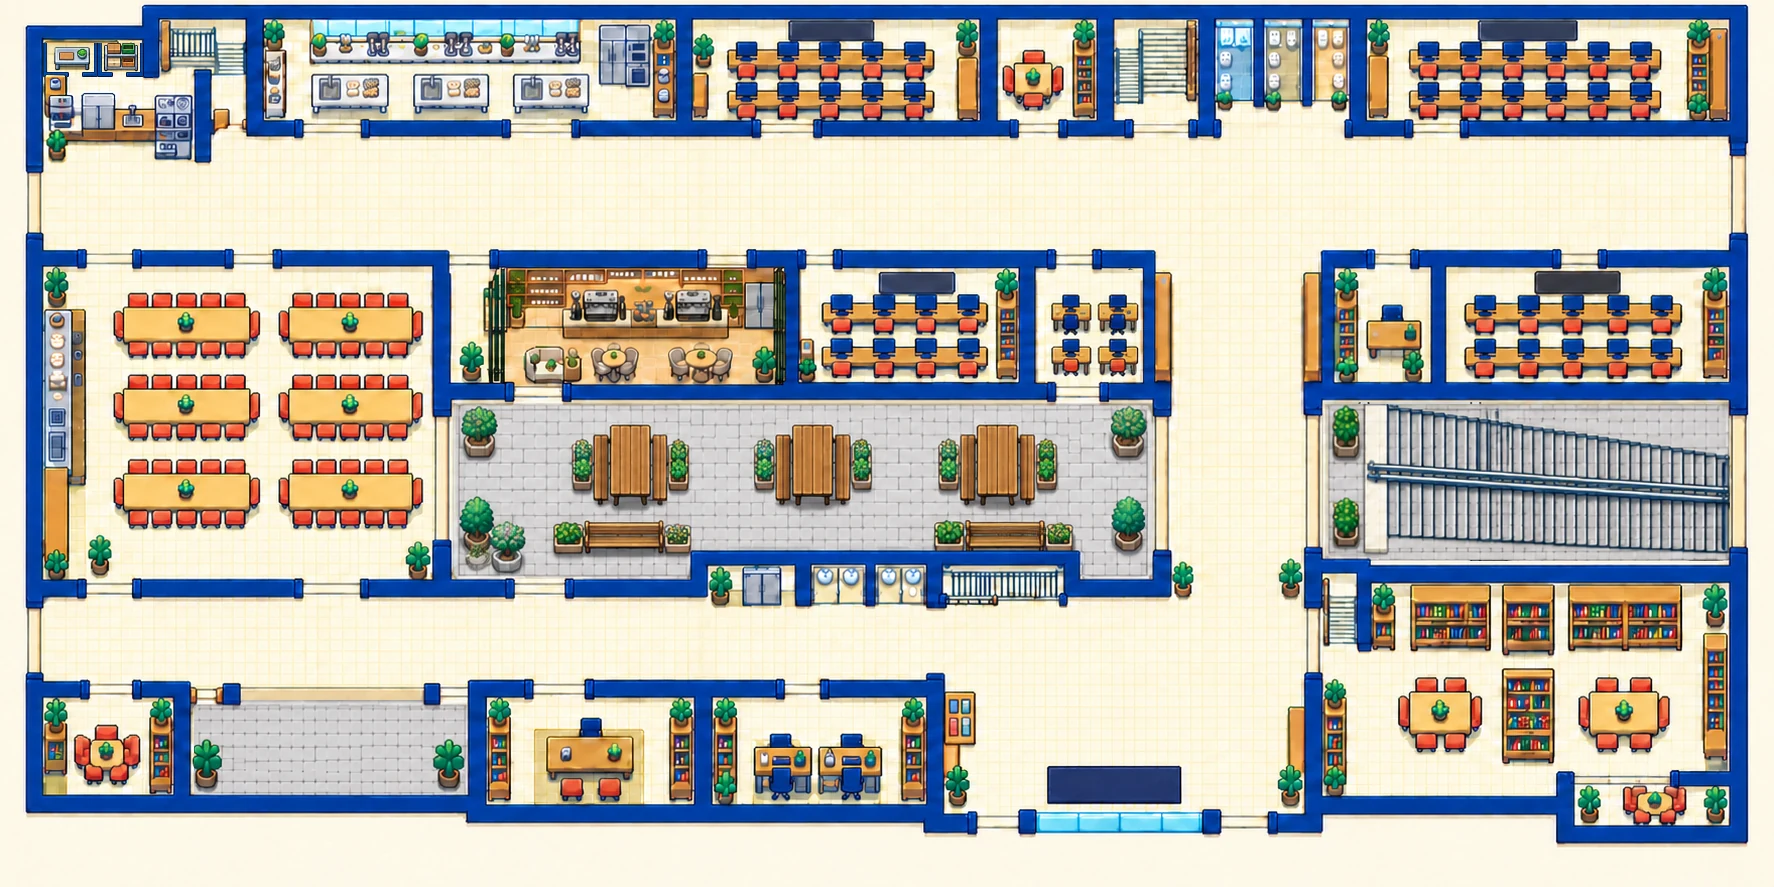
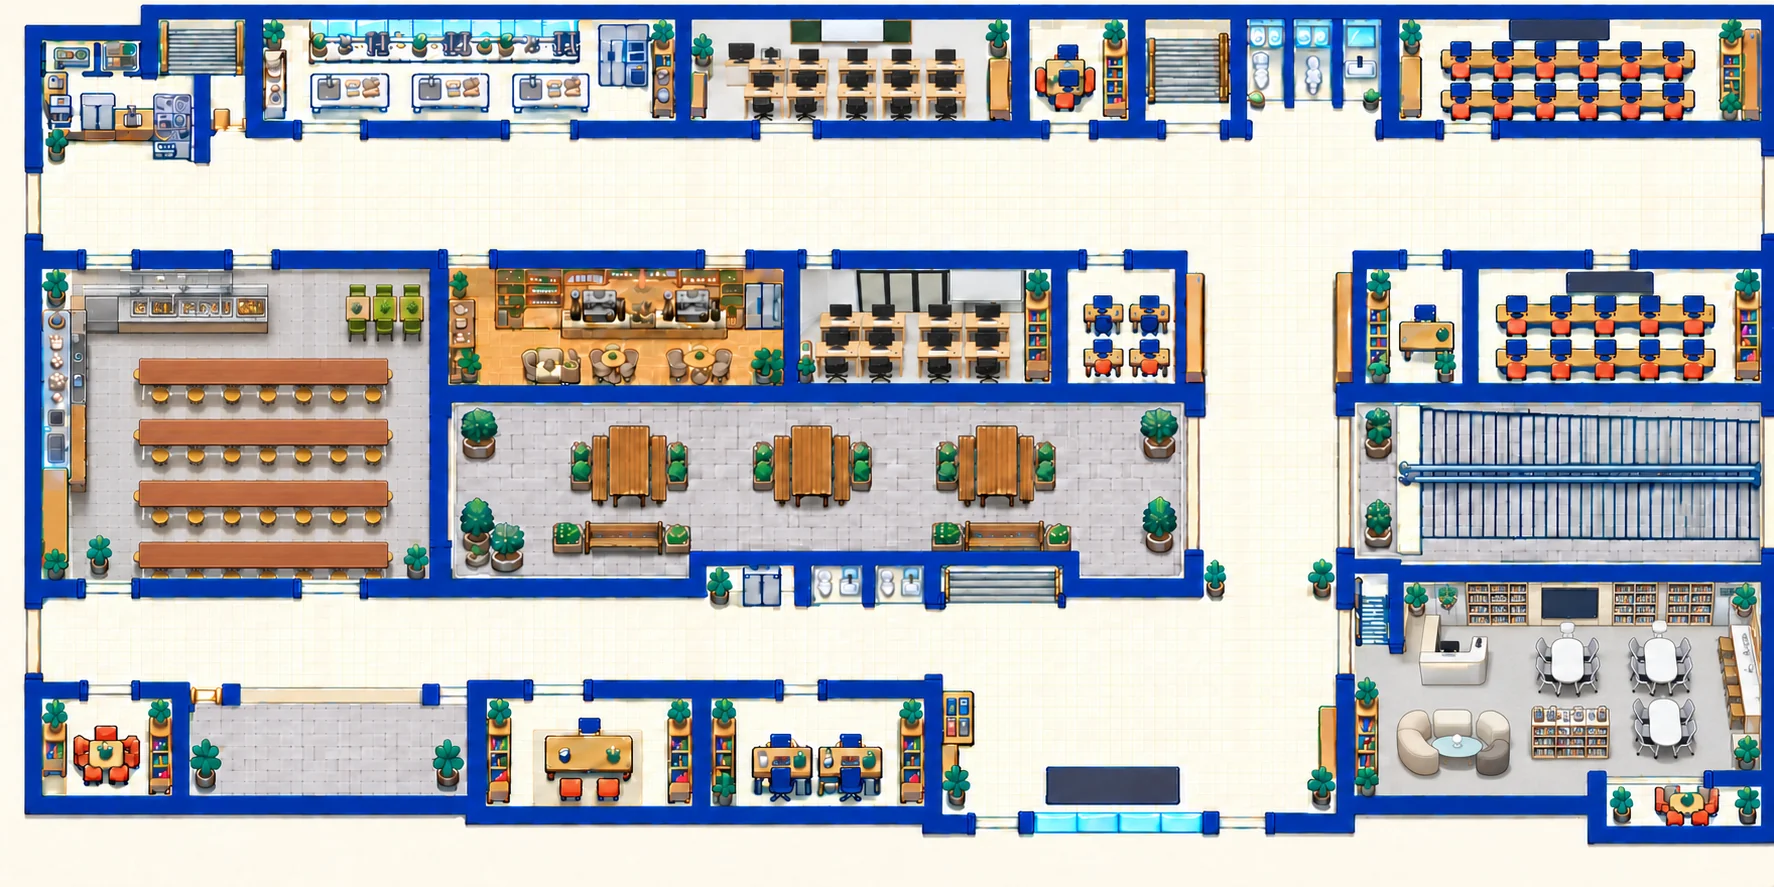
투어: 1~5층 그림을 실제 사진 반영본(중정 v6)으로 교체하고 좌표 맞춤
- 1층: 중정(야외 테라스)이 오른쪽으로 넓어져 오른쪽 복도·화분·현관 홀 범위를 옮김.
  카페실습실 앞 작은 통로가 카페 안으로 바뀌어 통로를 빼고, 카페 윗문 앞 복도에 도착
- 2층: 위쪽 복도 끝을 파우더룸 문 앞까지, 가운데 화장실·가운데 계단 위치를 새 그림에 맞춤
- 3층: AI비즈니스실 아래 복도 폭을 그림에 맞춤
- 4층: 가운데 화장실이 오른쪽 복도로 튀어나온 구간을 좁히고, 가운데 계단·화장실 위치 맞춤
- 5층: 구조 변화 없음 (그림만 교체)

Claude-Session: https://claude.ai/code/session_012SRz9qrHLJwhXjLVqy7pKx

diff --git a/tour/js/tour-data.js b/tour/js/tour-data.js
@@ -66,12 +66,11 @@ window.TOUR_SCENES = {
       { key: 'west', name: '왼쪽 위 계단', at: [11.4, 5], anchor: [13.3, 18] },
       { key: 'center', name: '가운데 계단', at: [56.5, 65.7], anchor: [56, 72] }
     ],
-    walkAreas: [[12.5, 16, 85, 11.5], [2.5, 19, 11, 8.5], [2.5, 69, 70.5, 6.5], [66.2, 16, 7, 61], [54, 75, 19, 17],
-      [25.5, 27, 2.1, 11.5]],   // 마지막: 식생활 교육관과 카페실습실 사이, 카페 유리문 앞 작은 통로 (아래는 벽)
-    walkObstacles: [[65.8, 62.5, 1.5, 5], [71.8, 62.5, 1.5, 5], [71.7, 85, 1.5, 6], [53.3, 78, 1.7, 6], [53.3, 86, 1.7, 5]],
+    walkAreas: [[12.5, 16, 85, 11.5], [2.5, 19, 11, 8.5], [2.5, 69, 72.5, 6.5], [68.2, 16, 6.8, 61], [54.5, 75, 20.3, 16.5]],
+    walkObstacles: [[67.9, 62.5, 1.4, 5], [73.7, 62.5, 1.5, 5], [73.7, 85.5, 1.5, 5.5], [53.3, 78, 1.7, 6], [53.3, 86, 1.7, 5]],
     hints: [
-      { at: [69.5, 38], dir: 'down', text: '도서실 · 중앙현관' },
-      { at: [69.5, 72], dir: 'left', text: '아래쪽 복도' },
+      { at: [71.5, 38], dir: 'down', text: '도서실 · 중앙현관' },
+      { at: [71.5, 72], dir: 'left', text: '아래쪽 복도' },
       { at: [55, 72], dir: 'right' },
       { at: [63, 90], dir: 'down', text: '야외로 나가기' }
     ],
@@ -87,7 +86,7 @@ window.TOUR_SCENES = {
       { name: '동아리실', at: [58.5, 8.2], w: 5.5, anchor: [58.5, 22] },
       { name: '화장실', quiet: true, at: [72, 7.8], w: 6, anchor: [72, 22], facility: true, where: '위쪽 복도' },
       { name: '문서작성실', at: [87, 8.2], w: 20, anchor: [87, 22] },
-      { name: '카페실습실', at: [35.6, 36.7], w: 14, anchor: [26.5, 35], rect: [28, 30, 16, 14],
+      { name: '카페실습실', at: [35.6, 36.7], w: 14, anchor: [26.5, 24], rect: [28, 30, 16, 14],
         status: '개편 예정', current: '기업자원관리실', note: '개편 예정', photo: FACILITY_IMG + 'cafe-lab.webp', wide: true,
         desc: '현재 기업자원관리실을 카페실습실로 조성할 예정입니다. 2027년 여름방학 중 완공을 목표로 합니다.' },
       { name: '전산회계1실', at: [51.5, 36], w: 11, anchor: [51.5, 24],
@@ -95,7 +94,7 @@ window.TOUR_SCENES = {
         desc: '학생마다 컴퓨터 한 대씩 쓰며 전산회계 프로그램으로 회계 실무를 익히고 자격증을 준비하는 실습실입니다.' },
       { name: '교육정보부실', at: [61.5, 35.5], w: 5.5, anchor: [61.5, 24], status: '선생님 교무실',
         desc: '교육정보부 선생님들이 근무하는 교무실입니다. 학교 정보화 기기와 교육 정보 업무를 맡고 있어요.' },
-      { name: '경비실', quiet: true, at: [77.9, 36.9], w: 5, anchor: [78.5, 24], rect: [74.5, 29, 7, 15] },
+      { name: '경비실', quiet: true, at: [77.9, 36.9], w: 5, anchor: [78.5, 24], rect: [75, 29, 7, 15] },
       { name: '사무자동화실', at: [89.4, 36.9], w: 13, anchor: [89.2, 24], rect: [81.5, 29, 16.5, 15] },
       { name: '식생활 교육관', at: [13.5, 47.5], w: 20, anchor: [6, 26], rect: [2, 30, 22, 35],
         photos: ['img/rooms/dining-1.jpg', 'img/rooms/dining-2.jpg', 'img/rooms/dining-3.jpg'],
@@ -104,13 +103,13 @@ window.TOUR_SCENES = {
       { name: '교장실', quiet: true, at: [32, 84], w: 9, anchor: [32, 72] },
       { name: '행정실', quiet: true, at: [46, 84], w: 11, anchor: [46, 72] },
       { name: '중앙현관', quiet: true, at: [63, 84], w: 12, anchor: [63, 84] },
-      { name: '도서실', at: [86.5, 78], w: 20, anchor: [71, 78], rect: [75, 66, 23, 24],
+      { name: '도서실', at: [86.5, 78], w: 20, anchor: [72.5, 78], rect: [75, 66, 23, 24],
         photos: ['img/rooms/library-1.jpg', 'img/rooms/library-2.jpg', 'img/rooms/library-3.jpg', 'img/rooms/library-4.jpg', 'img/rooms/library-5.jpg'],
         desc: '책을 읽고 모둠 활동도 할 수 있는 학교 도서실 「녹원책방」입니다.' },
       { name: '동아리실(풍물)', at: [93, 91], w: 9, anchor: [70.6, 88] },
-      { name: '야외 테라스', at: [45, 53], w: 10, anchor: [69.5, 53], rect: [25, 45, 40, 20],
+      { name: '야외 테라스', at: [45, 53], w: 10, anchor: [71.5, 53], rect: [25, 44, 43, 21],
         desc: '카페실습실 아래쪽의 야외 공간입니다.' },
-      { name: '외부 계단', at: [86, 53], w: 9, anchor: [71.5, 53], rect: [74, 45, 24, 18], note: '학교 밖으로 내려가는 계단',
+      { name: '외부 계단', at: [86, 53], w: 9, anchor: [73.5, 53], rect: [74, 45, 24, 18], note: '학교 밖으로 내려가는 계단',
         desc: '경비실 아래쪽, 학교 밖으로 내려가는 바깥 계단입니다. 왼쪽에서 오른쪽으로 내려가며, 가운데 난간으로 두 줄이 나뉘어 있어요.' },
       { name: 'E/L', elevator: true, at: [42.5, 65.7], w: 3, anchor: [42.5, 72], facility: true },
       { name: '화장실', quiet: true, at: [47.6, 65.7], w: 6, anchor: [47.6, 72], facility: true, where: '아래쪽 복도' }
@@ -128,10 +127,10 @@ window.TOUR_SCENES = {
     stairs: [
       { key: 'main', name: '주계단', at: [64.8, 7], anchor: [64.8, 19] },
       { key: 'west', name: '왼쪽 위 계단', at: [11, 4.5], anchor: [13.6, 17] },
-      { key: 'center', name: '가운데 계단', at: [55, 64.5], anchor: [55, 71] }
+      { key: 'center', name: '가운데 계단', at: [59, 64.8], anchor: [59, 71.5] }
     ],
-    walkAreas: [[12.5, 15.5, 85, 7], [12, 15.5, 3.2, 59], [2, 67.5, 68.5, 7], [66.3, 15.5, 4.7, 76], [13.4, 74, 8.2, 16]],
-    walkObstacles: [],
+    walkAreas: [[12.5, 15.5, 78, 7], [12, 15.5, 3.2, 59], [2, 68.9, 68.5, 6.6], [66.3, 15.5, 4.7, 76], [13.4, 74, 8.2, 16]],
+    walkObstacles: [[65.5, 62, 1.3, 4.6]],
     hints: [
       { at: [68.6, 35], dir: 'down', text: '온누리홀 · 보건실 방향' },
       { at: [68.6, 62], dir: 'up', text: '교무실 · 워크룸 방향' },
@@ -148,8 +147,8 @@ window.TOUR_SCENES = {
       { name: '워크룸4', at: [55, 7], w: 8, anchor: [55, 19] },
       { name: '화장실', quiet: true, at: [72.5, 7], w: 6, anchor: [72.5, 19], facility: true, where: '위쪽 복도' },
       { name: '취업지원센터', at: [85, 7], w: 10, anchor: [85, 19] },
-      { name: '면접지도실', at: [96, 5], w: 4, anchor: [95, 19], overflow: true },
-      { name: '파우더룸', at: [96, 12.5], w: 4, anchor: [95, 19], overflow: true },
+      { name: '면접지도실', at: [96, 5], w: 4, anchor: [90.3, 19], overflow: true },
+      { name: '파우더룸', at: [96, 12.5], w: 4, anchor: [90.3, 19], overflow: true },
       { name: '경영실습실', at: [23.5, 32], w: 9, anchor: [23.5, 19] },
       { name: '평가관리실', quiet: true, at: [33.5, 32], w: 4, anchor: [33.5, 19] },
       { name: '교무실', at: [51, 32], w: 14, anchor: [51, 19], rect: [36, 24, 30, 16], note: '교무 · 연구 · 교육과정', status: '선생님 교무실',
@@ -158,7 +157,7 @@ window.TOUR_SCENES = {
         desc: '직업교육부 선생님들이 근무하는 교무실입니다. 전공 실습과 직업교육 관련 업무를 맡고 있어요.' },
       { name: '취업지원부실', at: [90, 32], w: 12, anchor: [90, 19], status: '선생님 교무실',
         desc: '취업지원부 선생님들이 근무하는 교무실입니다. 학생들의 취업 준비와 진로 상담을 돕는 업무를 맡고 있어요.' },
-      { name: '화장실', quiet: true, at: [61, 45], w: 5, anchor: [68.5, 45], facility: true, where: '가운데' },
+      { name: '화장실', quiet: true, at: [59, 57], w: 5, anchor: [68.6, 57], facility: true, where: '가운데' },
       { name: 'E/L', elevator: true, at: [37, 64], w: 3, anchor: [37, 71], facility: true },
       { name: '발간실', quiet: true, at: [44, 64], w: 5, anchor: [44, 71] },
       { name: '온누리홀', at: [86, 75], w: 16, anchor: [68.6, 75], rect: [72, 61, 26, 30] },
@@ -185,7 +184,7 @@ window.TOUR_SCENES = {
       { key: 'west', name: '왼쪽 위 계단', at: [12.7, 6], anchor: [16.3, 23] },
       { key: 'center', name: '가운데 계단', at: [61.5, 66.5], anchor: [61.5, 75.5] }
     ],
-    walkAreas: [[15.5, 20.8, 82.5, 9], [67.8, 20.8, 6.6, 52], [74.4, 47.8, 23.6, 7.8], [2, 72, 96, 7]],
+    walkAreas: [[15.5, 20.8, 82.5, 9], [67.8, 20.8, 6.6, 52], [74.4, 47.8, 23.6, 7.8], [2, 72, 72.5, 7], [74.4, 73.9, 23.6, 4.7]],
     walkObstacles: [],
     hints: [
       { at: [71, 40], dir: 'down', text: 'AI비즈니스실 · 아래쪽 복도' },
@@ -233,13 +232,13 @@ window.TOUR_SCENES = {
     start: [45, 24.5],
     stairs: [
       { key: 'main', name: '주계단', at: [67.5, 10], anchor: [67.5, 24.5] },
-      { key: 'center', name: '가운데 계단', at: [58, 66], anchor: [58, 77] }
+      { key: 'center', name: '가운데 계단', at: [60.6, 66], anchor: [60.6, 77.5] }
     ],
-    walkAreas: [[17.5, 20.8, 81, 7.8], [64.2, 20.8, 7.2, 60.2], [71.4, 50, 26.6, 5.6], [17.5, 73.8, 80.5, 7.2]],
+    walkAreas: [[17.5, 20.8, 81, 7.8], [64.2, 20.8, 7.2, 29.4], [67.5, 50, 3.9, 25], [71.4, 50, 26.6, 5.6], [17.5, 74.6, 80.5, 6.2]],
     walkObstacles: [],
     hints: [
       { at: [67.8, 40], dir: 'down', text: '1-7 · 전산회계실 방향' },
-      { at: [67.8, 66], dir: 'up', text: '1-1~1-6 교실 방향' }
+      { at: [69.4, 66], dir: 'up', text: '1-1~1-6 교실 방향' }
     ],
     rooms: [
       { name: '체육관 2층', at: [9, 40], w: 10, anchor: [18.5, 24.5], rect: [2, 3, 15, 76], note: '아래 코트 · 보행 불가',
@@ -259,7 +258,7 @@ window.TOUR_SCENES = {
       { name: '1-4 교실', at: [55, 38], w: 8, anchor: [55, 24.5] },
       { name: '1-5 교실', at: [79, 38], w: 8, anchor: [79, 24.5] },
       { name: '1-6 교실', at: [92, 38], w: 8, anchor: [92, 24.5] },
-      { name: '화장실', quiet: true, at: [57.5, 54], w: 5, anchor: [67.5, 54], facility: true, where: '가운데' },
+      { name: '화장실', quiet: true, at: [60, 55.5], w: 5, anchor: [69.4, 55], facility: true, where: '가운데' },
       { name: 'E/L', elevator: true, at: [35, 66], w: 3, anchor: [35, 77], facility: true },
       { name: '화장실', quiet: true, at: [40.5, 66], w: 4, anchor: [40.5, 77], facility: true, where: 'E/L 옆' },
       { name: '상담실1', at: [45.5, 66], w: 4.5, anchor: [45.5, 77] },
